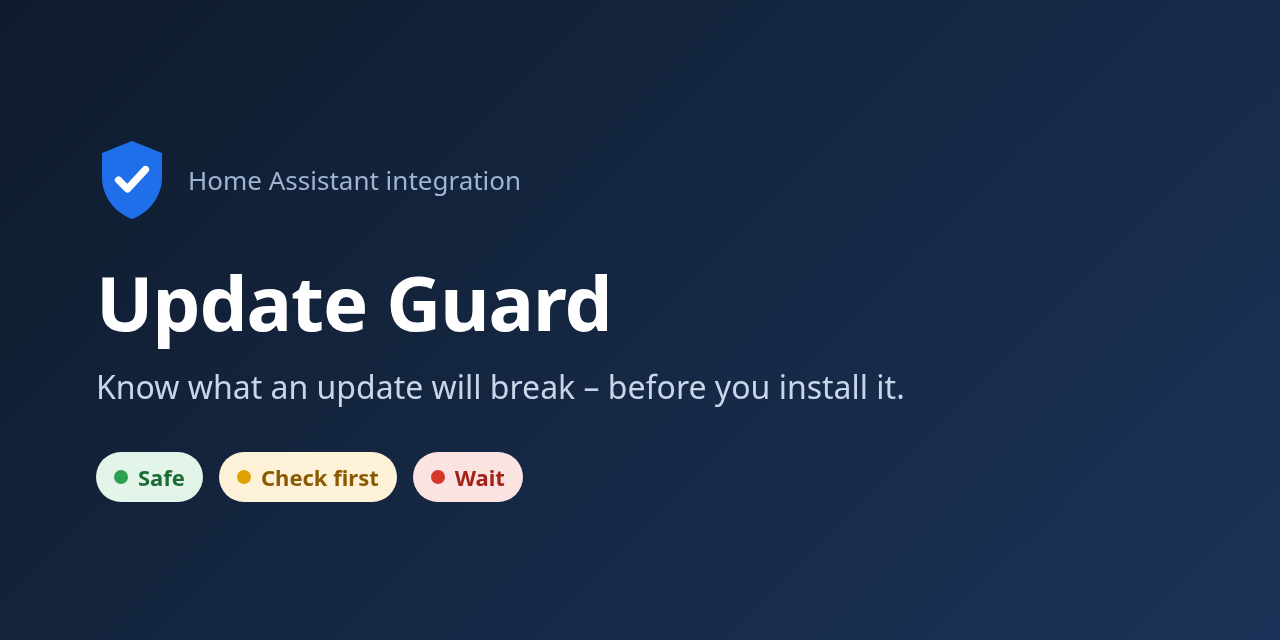
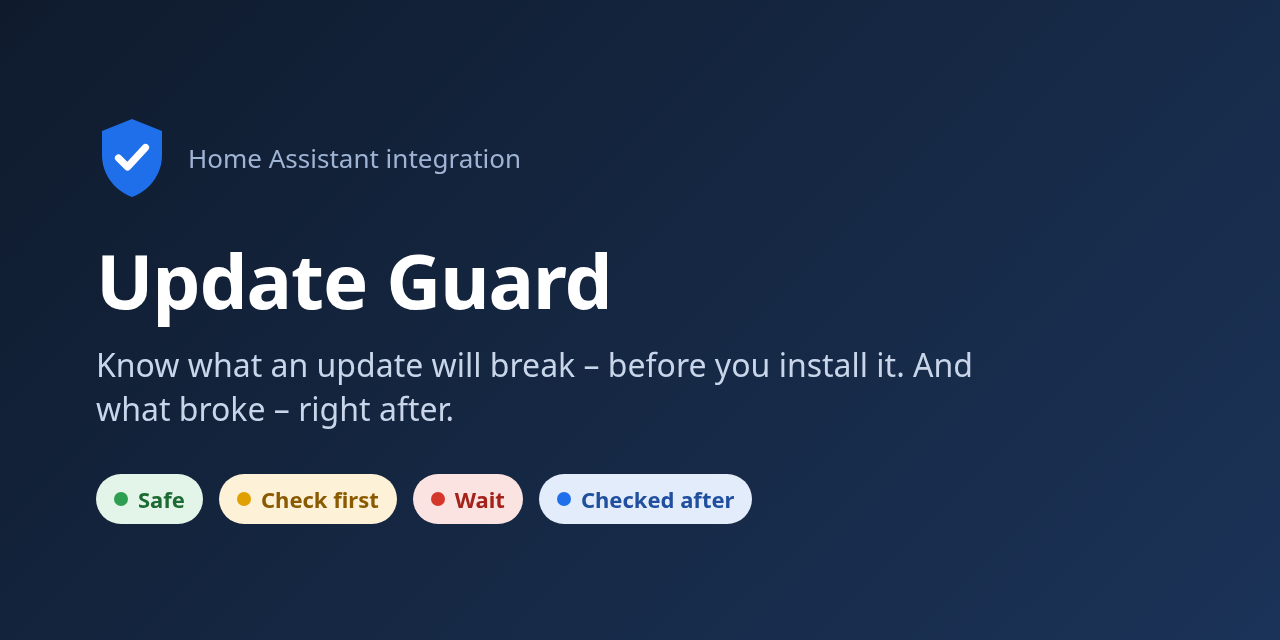
README: billeder med tjekket efter opdateringen

Changed region(s): [[0.0625, 0.375, 0.7812, 0.6562], [0.0625, 0.6875, 0.5938, 0.8438], [0.0625, 0.1875, 0.4062, 0.3438]]

diff --git a/README.md b/README.md
@@ -38,6 +38,8 @@ You see it in three places: the sensor, **Settings → Repairs** (one repair per
 
 ### After the update
 
+![Example of a repair after an update (illustration)](docs/after.png)
+
 Update Guard keeps a snapshot of what works (available entities and loaded integrations) every 10 minutes. When an update has been installed – an app, a HACS integration, firmware, or Home Assistant itself – it checks again **5 and 30 minutes** later:
 
 - Only what worked before and is **still** broken at both checks is reported. Things that are unavailable for a minute during a restart, or that were already broken, are not.
@@ -149,6 +151,8 @@ Hver måned kommer der ændringer i Home Assistant, apps og HACS-integrationer, 
 - **Det HA allerede har advaret om:** Advarsler i loggen og reparationer med en "går i stykker i"-version kobles til den opdatering, hvor de rent faktisk går i stykker.
 
 ### Efter opdateringen
+
+![Eksempel på en reparation efter en opdatering (illustration)](docs/after.png)
 
 Update Guard gemmer hvert 10. minut et øjebliksbillede af, hvad der virker, dvs. hvilke enheder der er tilgængelige, og hvilke integrationer der er startet. Når en opdatering er installeret, tjekker den igen **5 og 30 minutter** efter. Det gælder apps, HACS-integrationer, firmware og selve Home Assistant.
 
